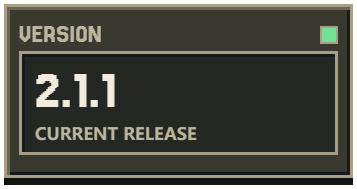
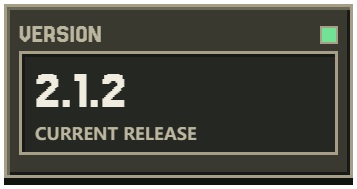
chore(release): 2.1.2 版本位、更新记录与 README 口径
版本唯一权威两处同版：`tauri.conf.json` 与 `Cargo.toml`（含 `Cargo.lock` 的
`fish-dock` 包），`integrations/claude-code/.claude-plugin/plugin.json` 跟上
（`one_version_everywhere` 钉住这三处）。

- 新增 `app/docs/release-2.1.2.md`：三件事（#73 瘦身 / #74 弹窗视觉居中 / #75
  安装器选项）+ 升级注意（内置引擎下已启用的 mod 要先停用，否则被映射的
  `Engine/*.dll` 在升级时删不掉，会留下删不掉的残壳）+ 包的校验口径。
- `README.md` / `README.en.md`：版本卡与包名换到 2.1.2、精简包基线说明改成
  「只对 2.1.1 有效」；同时把「随包提供 Windhawk 引擎和编译器」的对外口径改掉
  （#73 起不再随包，许可义务随用户自装那份走）。版本卡与头图由
  `tools/render-readme.mjs` 重渲，未手改 PNG。
- `assets/readme/*`：渲染产物（版本卡 2.1.2 + metadata 的 contentHash）。

Changed region(s): [[0.2773, 0.3704, 0.3697, 0.582]]

diff --git a/README.en.md b/README.en.md
@@ -6,14 +6,14 @@
 </p>
 <h1><picture><source media="(prefers-color-scheme: dark)" srcset="assets/readme/hero-en-dark.png"><img src="assets/readme/hero-en-light.png" width="1440" alt="FISH Dock: a dock for AI sessions and a home for model APIs. Original icon and user-provided hanging mascot."></picture></h1>
 <p>
-<a href="https://github.com/Fish-under-sea/FISH-Dock/releases/tag/v2.1.1"><picture><source media="(prefers-color-scheme: dark)" srcset="assets/readme/stat-version-en-dark.png"><img src="assets/readme/stat-version-en-light.png" width="23%" alt="Current version v2.1.1"></picture></a>
+<a href="https://github.com/Fish-under-sea/FISH-Dock/releases/tag/v2.1.2"><picture><source media="(prefers-color-scheme: dark)" srcset="assets/readme/stat-version-en-dark.png"><img src="assets/readme/stat-version-en-light.png" width="23%" alt="Current version v2.1.1"></picture></a>
 <a href="#install"><picture><source media="(prefers-color-scheme: dark)" srcset="assets/readme/stat-desktop-en-dark.png"><img src="assets/readme/stat-desktop-en-light.png" width="23%" alt="Two docking modes: taskbar and island"></picture></a>
 <a href="#workspace"><picture><source media="(prefers-color-scheme: dark)" srcset="assets/readme/stat-mail-en-dark.png"><img src="assets/readme/stat-mail-en-light.png" width="23%" alt="Mail management: combined inbox and mark all as read"></picture></a>
 <a href="https://github.com/Fish-under-sea/FISH-DOCK-Plugins"><picture><source media="(prefers-color-scheme: dark)" srcset="assets/readme/stat-channels-en-dark-v2.png"><img src="assets/readme/stat-channels-en-light-v2.png" width="23%" alt="Three independent official plugins"></picture></a>
 </p>
 <p>
 <a href="https://github.com/Fish-under-sea/FISH-Dock/releases/tag/v2.1.1"><picture><source media="(prefers-color-scheme: dark)" srcset="assets/readme/key-download-en-dark.png"><img src="assets/readme/key-download-en-light.png" width="168" alt="Downloads and Releases; installer assets require a published release"></picture></a>
-<a href="app/docs/release-2.1.1.md"><picture><source media="(prefers-color-scheme: dark)" srcset="assets/readme/key-release-en-dark.png"><img src="assets/readme/key-release-en-light.png" width="112" alt="Changelog"></picture></a>
+<a href="app/docs/release-2.1.2.md"><picture><source media="(prefers-color-scheme: dark)" srcset="assets/readme/key-release-en-dark.png"><img src="assets/readme/key-release-en-light.png" width="112" alt="Changelog"></picture></a>
 <a href="https://github.com/Fish-under-sea/FISH-Dock/issues"><picture><source media="(prefers-color-scheme: dark)" srcset="assets/readme/key-issues-en-dark.png"><img src="assets/readme/key-issues-en-light.png" width="120" alt="Report an issue"></picture></a>
 </p>
 </div>
@@ -32,7 +32,7 @@ What the host itself provides. Business content — mail, models, notifications,
 | Plugin install and update | Source, platform and resource digests are validated; official plugins resolve npm `@fish-under-sea/fish-dock-plugin-*` → npmmirror → GitHub release; install/update are journaled transactions (interrupted installs resume, unverifiable ones roll back) and only the current version is kept. One three-state autostart button per card: on "Turn off autostart", off "Start with the Dock", no-autostart capability "No autostart needed" (display only). The only solid button on a card is Update; uninstall and "Open plugin logs" move into More. |
 | About and notes | Brand image first and centred, clickable to the official site (override `url.official_site`); notes show only the latest version's highlights with the full text collapsed; sources are GitHub → Gitee → local cache (Gitee is skipped explicitly when unconfigured); updates finish entirely in-app. |
 | Global shortcuts | A recorder in Settings; an occupied combination is reported, and after 30 seconds without a usable one the recorder gives up instead of hanging. |
-| Appearance toolchain | Windhawk engine and compiler ship with the app: import mods, compile, switch and roll back on the Appearance page. |
+| Appearance toolchain | Connects to your own Windhawk install (2.1.2 stopped bundling the engine and compiler): import mods, compile, switch and roll back on the Appearance page. |
 | Theme and legibility | White on dark, black on light; the contrast audit (`scripts/check-contrast.mjs`) reports zero violations. |
 | Network and cache | Gallery and downloads use one egress (respecting proxy settings, falling back to direct); timeouts are tiered and configurable; the gallery has an offline LRU cache. Mail reconnects use exponential backoff, a circuit breaker and persisted state. |
 | Memory | Hidden means resting (a hidden page gets `IsVisible=false` and a Low memory target); `check_quiet` no longer lifts hidden pages back to normal; a parked plugin iframe retires after five minutes. The budget table has A/B/C tiers in `红线-禁止屎山十条.md` (open items tracked in issues #29 / #30). |
@@ -52,7 +52,7 @@ This section is only about entry points and operations; capability detail is abo
 
 Business code, plugin packages and the store catalog are maintained in [FISH-DOCK-Plugins](https://github.com/Fish-under-sea/FISH-DOCK-Plugins); this repository owns the desktop host, SDK, installer, plugin management and Windhawk.
 
-**2.1.1** is a patch release: host 2.1.1, compatible with plugins 2.x (official catalog is at 2.2.0: Clash / Magpie / Feishu). Two things: (1) **the third-party plugin view no longer lists the three official plugins as third-party** — the official three also publish compliant npm names (`@fish-under-sea/fish-dock-plugin-*`), so the default discovery query put them first; search and the install path now exclude them and point to the Official plugins view; (2) **the Gitee channel for update checks is back on by default** — Gitee now carries the installer asset, so `url.gitee_repo` defaults to the main repository mirror (`off` disables it) and the checker probes the real `FISH-Dock-Update-<ver>.exe.sha256` instead of the legacy portable name. Full notes: [2.1.1 release notes](app/docs/release-2.1.1.md).
+**2.1.2** is a patch release: host 2.1.2, compatible with plugins 2.x (official catalog is at 2.2.0: Clash / Magpie / Feishu). Three things: (1) **a much smaller installer** — the bundled Windhawk engine and its LLVM-MinGW compiler are gone (originally 557.8 MB / 8413 files), so install resources drop from 1328.4 MB / 10513 files to 808.0 MB / 2100 files and the Appearance page connects to the Windhawk copy you install yourself; (2) **visually centred dialogs** — 16/12 vertical insets, centred button row, a card shadow and a stable scrollbar gutter, plus a fix for the entrance animation making the dialog measure 2% short and keep a permanent scrollbar; (3) **installer choices** — the desktop shortcut is optional (checked for the installer, unchecked for the update) and "launch FISH Dock" now defaults to checked in both. Full notes: [2.1.2 release notes](app/docs/release-2.1.2.md).
 
 **2.0.4** is a revision release: host 2.0.4, compatible with plugins 2.1.x (Clash and Magpie 2.1.3, Feishu 2.1.0). It closes issues #63, #65, #66 and #67 and regresses #64. Plugin autostart becomes a single scheduler — one shared budget per attempt (60 s cold, 10 s warm), a 180-second lifecycle per round, one in-flight attempt per plugin, two plugins in parallel, and late results dropped by generation — so a backup-time pause no longer spawns a second instance. Resource fetching moves into one picker layer: the origin first, configured mirrors as candidates, retried per proxy way, all sharing a single total budget and landing through a unique temporary file plus an atomic rename; the update package downloads through it too, and pet lists, details, posters and previews are fetched and cached by the host. Pet now raises a notice when a new version is found. The plugin card More menu becomes a full-row action list, npm discovery search pages correctly on short pages via `nextFrom`, and http/https links in plugin pages open through a host-mediated channel (all other schemes are refused). OFM is fully unwired, legacy naming is cleaned up, and the Agent session API (`/v1`) plus `agent-core` land. See the [2.0.4 release notes](app/docs/release-2.0.4.md) for the full text and known limitations.
 
@@ -87,10 +87,10 @@ Choose the package for the published version and verify it with `SHA256SUMS.txt`
 
 | Package | When to use it |
 | --- | --- |
-| `FISH-Dock-Setup-2.1.1.exe` | First installation, missing runtimes or repair; includes the complete offline runtime. |
-| `FISH-Dock-Update-2.1.1.exe` | An existing **2.1.0** installation with intact base resources; contains only the changed files (about 30 MB) and points to the full installer if required resources are missing or damaged. |
+| `FISH-Dock-Setup-2.1.2.exe` | First installation, missing runtimes or repair; includes the complete offline runtime (about 250 MB). |
+| `FISH-Dock-Update-2.1.2.exe` | An existing **2.1.1** installation with intact base resources; contains only the changed files (about 30 MB) and points to the full installer if required resources are missing or damaged. |
 
- Exit the previous version from the tray before upgrading. The installer bundles Node.js 24.14.0, Fixed Version WebView2 155.0.4283.62, and Windhawk 1.7.3 with its LLVM-MinGW compiler. A separate Windhawk installation is unnecessary. The installer is currently unsigned.
+ Exit the previous version from the tray before upgrading. The installer bundles Node.js 24.14.0 and Fixed Version WebView2 155.0.4283.62. Since 2.1.2 it no longer bundles the Windhawk engine or its LLVM-MinGW compiler (originally 557.8 MB / 8413 files), so Windows customization uses your own Windhawk install and mod import is unavailable until one is present. The installer is currently unsigned.
 
 Installed releases support manual checks in About and Updates, plus checks after launch and daily. If the GitHub API is unavailable, checks fall back to reading the official release page's version information (still surfaced in-app). Upgrade with a package installer in-app rather than replacing the host executable; the flow never opens an external web page. Same-version revisions do not trigger a version-number notification; download the revised package and verify the latest checksum.
 
@@ -118,4 +118,4 @@ Build inputs are pinned in `app/scripts/runtime-sources.json`. Prepare a new res
 
 ## Acknowledgements
 
-Upstream copyright and the [MIT license](LICENSE) are retained (Wakuwaku, Copyright 2026 Pengjie Zhou); model capabilities are provided by the Magpie plugin. Original licenses for Windhawk, Node.js, WebView2 and the compiler ship with the installed resources. Source and redistribution bounds of the original brand assets are in [asset credits](assets/readme/SOURCES.md): pet sprites and the application icon keep their own asset rights and are not relicensed by the open-source code. People and repository ownership are listed under Contributors above.
+Upstream copyright and the [MIT license](LICENSE) are retained (Wakuwaku, Copyright 2026 Pengjie Zhou); model capabilities are provided by the Magpie plugin. Original licenses for Node.js and WebView2 ship with the installed resources; Windhawk is no longer redistributed as of 2.1.2, so its GPLv3 obligations follow the copy you install yourself. Source and redistribution bounds of the original brand assets are in [asset credits](assets/readme/SOURCES.md): pet sprites and the application icon keep their own asset rights and are not relicensed by the open-source code. People and repository ownership are listed under Contributors above.

diff --git a/app/docs/release-2.1.2.md b/app/docs/release-2.1.2.md
@@ -1,0 +1,55 @@
+# FISH Dock 2.1.2
+
+2.1.1 之后的补丁版：把安装包瘦了一大圈，并把 Dock 内部弹窗的观感、安装器的选项做正。
+
+## 这一版改了什么
+
+### 安装包瘦身：不再内置 Windhawk 引擎与编译器（#73）
+
+`resources/windhawk/` 整棵移除——原始 **557.8 MB / 8413 个文件**，占安装资源的 42%，其中 `Compiler/`（LLVM-MinGW）一项就 543 MB / 8394 个文件。
+
+| 口径 | 2.1.1 | 2.1.2 |
+| --- | --- | --- |
+| 安装资源（解压） | 1328.4 MB / 10513 文件 | **808.0 MB / 2100 文件** |
+| 启动必需项 | 14 项（其中 10 项 `windhawk/*`） | **4 项** |
+| 安装清单记录 | 10517 条 | 约 2100 条 |
+
+**外观 → Windows 美化不再是「随包自带引擎」**，改为连接你自己安装的 Windhawk（配置里的路径 → 注册表 → `Program Files` 三档探测，顺序与 2.1.0 一致）。导入模组源码、编译、启停、回滚、集合导入这些功能都还在，编译器用你所选那份 Windhawk 自带的。没装 Windhawk 时外观页会明确说「未检测到 Windhawk」并给出指定目录的入口，不再出现「内置引擎尚未就绪，请刷新重试」。
+
+顺带收掉一项许可负担：Windhawk 是 GPLv3、编译器是 Apache-2.0（LLVM 例外），2.1.1 及更早随包分发这些二进制却没在 `licenses/NOTICE.txt` 里写明来源；现在不再分发，义务随用户自己安装的那份走。
+
+> **升级注意**：如果 2.1.1 及更早版本里有用内置引擎**已经启用**的 mod，先用外观页把它们停用再升级——被目标进程映射的 `Engine/*.dll` 在升级时删不掉，会留下一个删不掉的 `resources/windhawk/` 残壳。装完 `resources/windhawk/` 应当不存在。
+
+### 弹窗的视觉居中（#74）
+
+几何居中（弹窗中心 == 面板内容区中心，≤2px）在 2.0.0 就做到了，这一版补的是**看起来**也居中：
+
+- 上下留白从四边等宽 14px 改成 **16 / 12**：标题 16px 粗体压在上方、按钮组沉在底部，等宽内衬会让整个内容块的重心偏上；上多下少把它压回中心。
+- 按钮组从贴右下（`flex-end`）改成**水平居中**——实心按钮面积大，贴右下时内容块的视觉重心横向偏右 42px，这是「看着不居中」的主要来源。
+- 卡片补一层轻投影（原来是 `box-shadow: none`），卡片中心与面板中心重合这件事才看得出来。遮罩仍然保持透明：设置面板窗口铺满整个工作区宽度，压暗会读成全屏模态。
+- `scrollbar-gutter: stable both-edges`：长文案出现滚动条时内容中心不再横向跳（实测前后位移 0.00px）。
+- 入场 160ms 淡入 + `scale(.98→1)`，`transform-origin` 固定在卡片中心，三帧中心漂移 0.00px。
+
+顺手修了一个由此暴露的旧缺陷：`dialog-anchor.js` 用 `getBoundingClientRect().height` 量弹窗高度，而入场动画的 `transform` 会让它返回**缩放后**的尺寸（少 2%），按它设 `height` 就内容溢出、滚动条常驻。改用 `offsetHeight`（不吃 transform）。
+
+### 安装包 / 更新包的可选项（#75）
+
+- 桌面快捷方式变成可选：安装界面新增组件页，**安装包默认勾选**、**更新包默认不勾**（老用户桌面上通常已经有了，不重复建、也不覆盖你换过图标的那个）。
+- 安装时把选择记进注册表（`DesktopShortcut`），卸载只删自己建的那次；你自己建的同名快捷方式不再被卸载顺手删掉。
+- 完成页「启动 FISH Dock」在**两个包里都默认勾选**（原来默认不勾），标题按包区分「已完成安装 / 已完成更新」。
+- 静默安装跟着默认值走：`Setup /S` 建快捷方式，`Update /S` 不建。
+
+### 仓库机制
+
+- issue 立项规则落库：`.github/CONTRIBUTING.md` + `.github/ISSUE_TEMPLATE/issue.yml`（查重、类型标签、是否维护者、**版本用 Milestone 表达**、侧边栏六项自查）；崩溃模板补同一套必答项。
+
+## 包与校验
+
+- `FISH-Dock-Setup-2.1.2.exe`（完整安装包）
+- `FISH-Dock-Update-2.1.2.exe`（精简差分包，**只对 2.1.1 有效**）
+- 各自附 `.sha256`；`SHA256SUMS.txt` 列出全部。
+
+## 已知限制
+
+- 便携版入口仍无载荷（发行不提供便携 exe），安装版不受影响。
+- 应用内更新只认 `FISH-Dock-Update-<版本>.exe` 与它的 `.sha256`；跨版本用精简包会缺文件，请用完整安装包。
